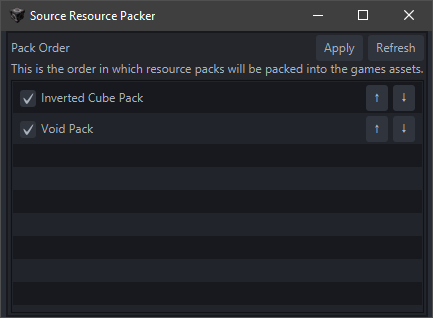
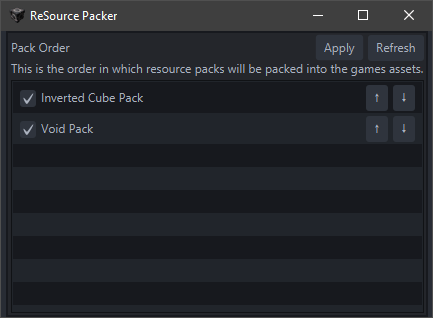
Name overhaul, README fix x 27,000

Changed region(s): [[0.06, 0.0283, 0.3603, 0.0849]]

diff --git a/src/main/kotlin/blue/sparse/srp/PackView.kt b/src/main/kotlin/blue/sparse/srp/PackView.kt
@@ -84,7 +84,7 @@ class PackController : Controller() {
 			step.value = "Packing default textures..."
 		}
 
-		SRPPacker.packDefaultResources { name, progress ->
+		RSPPacker.packDefaultResources { name, progress ->
 			Platform.runLater {
 				packingProgress.value = progress
 				assetName.value = name
@@ -97,9 +97,9 @@ class PackController : Controller() {
 			step.value = "Packing \"${name}\"..."
 		}
 
-		val f = File(SRPFiles.RESOURCE_PACKS, name)
+		val f = File(RSPFiles.RESOURCE_PACKS, name)
 		println("Packing $name")
-		SRPPacker.pack(f) { name, progress ->
+		RSPPacker.pack(f) { name, progress ->
 			Platform.runLater {
 				packingProgress.value = progress
 				assetName.value = "Asset \"$name\""

diff --git a/src/main/kotlin/blue/sparse/srp/SetupView.kt b/src/main/kotlin/blue/sparse/srp/SetupView.kt
@@ -8,7 +8,7 @@ import javafx.scene.control.Label
 import javafx.scene.control.ProgressBar
 import tornadofx.*
 
-class SetupView : View("Source Resource Packer") {
+class SetupView : View("ReSource Packer") {
 
 	private val controller: SetupController by inject()
 
@@ -60,14 +60,14 @@ class SetupController : Controller() {
 	val assetName = SimpleStringProperty("")
 
 	fun extractResources() {
-		SRP.extractDefaultResources { name, progress ->
+		ReSourcePacker.extractDefaultResources { name, progress ->
 			Platform.runLater {
 				extractionProgress.value = progress
 				assetName.value = "Asset \"$name\""
 			}
 		}
 
-		SRPFiles.makeDirectories()
+		RSPFiles.makeDirectories()
 	}
 }
 

diff --git a/src/main/kotlin/blue/sparse/srp/MainView.kt b/src/main/kotlin/blue/sparse/srp/MainView.kt
@@ -10,7 +10,7 @@ import java.lang.Integer.max
 import kotlin.math.min
 
 
-class MainView : View("Source Resource Packer") {
+class MainView : View("ReSource Packer") {
 
 	val controller by inject<MainController>()
 
@@ -147,7 +147,7 @@ class MainController : Controller() {
 
 	fun refreshPackList() {
 
-		val listFiles = SRPFiles.RESOURCE_PACKS.listFiles()
+		val listFiles = RSPFiles.RESOURCE_PACKS.listFiles()
 		val list = mutableListOf<String>()
 		for (file in listFiles) {
 			if (file.isDirectory || file.extension == "zip") {

diff --git a/src/main/kotlin/blue/sparse/srp/SRPApp.kt b/src/main/kotlin/blue/sparse/srp/SRPApp.kt
@@ -12,7 +12,7 @@ class SRPApp : App(NoPrimaryViewSpecified::class, SRPStylesheet::class) {
 
 	override val primaryView: KClass<out UIComponent>
 		get() {
-			if (!SRPFiles.DATA.exists()) {
+			if (!RSPFiles.DATA.exists()) {
 				return SetupView::class
 			}
 

diff --git a/src/main/java/blue/sparse/srp/RSPPacker.java b/src/main/java/blue/sparse/srp/RSPPacker.java
@@ -15,9 +15,9 @@ import java.util.List;
 import java.util.stream.Collectors;
 import java.util.stream.StreamSupport;
 
-public final class SRPPacker {
+public final class RSPPacker {
 
-	private SRPPacker() {
+	private RSPPacker() {
 	}
 
 //	public static void pack() throws IOException {
@@ -38,9 +38,9 @@ public final class SRPPacker {
 
 	public static void packDefaultResources(ResourceProgress progress) throws IOException {
 		System.out.println("Packing default resources...");
-		File dir = SRPFiles.WORKING_DIR;
-		File defaultResources = SRPFiles.DEFAULT_RESOURCES;
-		List<String> assetExtensions = new ArrayList<>(SRPFiles.ASSET_EXTENSIONS_LIST);
+		File dir = RSPFiles.WORKING_DIR;
+		File defaultResources = RSPFiles.DEFAULT_RESOURCES;
+		List<String> assetExtensions = new ArrayList<>(RSPFiles.ASSET_EXTENSIONS_LIST);
 
 		List<Path> paths = Files.walk(defaultResources.toPath()).filter(path -> {
 			File file = path.toFile();
@@ -98,7 +98,7 @@ public final class SRPPacker {
 	//named something wrong.
 	public static void pack(File pack, ResourceProgress progress) throws IOException {
 
-		File dir = SRPFiles.WORKING_DIR;
+		File dir = RSPFiles.WORKING_DIR;
 
 		if (!pack.isDirectory() && !pack.getName().endsWith(".zip")) {
 			return;
@@ -159,7 +159,7 @@ public final class SRPPacker {
 					texture.setReflectivity(new Vector3f(1f));
 					File out = new File(dir, assetName + ".vtf");
 
-					if (out.exists() && SRPConfig.MAKE_BACKUPS) {
+					if (out.exists() && RSPConfig.MAKE_BACKUPS) {
 						File copy = new File(out.getAbsolutePath() + ".bak");
 						if (!copy.exists()) {
 							Files.copy(out.toPath(), copy.toPath(), StandardCopyOption.REPLACE_EXISTING);

diff --git a/src/main/java/blue/sparse/srp/ReSourcePacker.java b/src/main/java/blue/sparse/srp/ReSourcePacker.java
@@ -12,7 +12,7 @@ import java.util.stream.Collectors;
 
 import static javafx.application.Application.launch;
 
-public final class SRP {
+public final class ReSourcePacker {
 
 	//TODO:
 	/*
@@ -43,16 +43,16 @@ public final class SRP {
 	}
 
 	public static void extractDefaultResources(ResourceProgress progress) {
-		File dir = SRPFiles.WORKING_DIR;
+		File dir = RSPFiles.WORKING_DIR;
 		String dirPath = dir.getAbsolutePath();
 
 		try {
-			List<String> extensions = SRPFiles.ASSET_EXTENSIONS_LIST;
+			List<String> extensions = RSPFiles.ASSET_EXTENSIONS_LIST;
 
 			List<Path> assets = Files.walk(dir.toPath()).filter(it -> {
 				String fullPath = it.toString();
 
-				if (fullPath.startsWith(SRPFiles.DATA.getAbsolutePath())) {
+				if (fullPath.startsWith(RSPFiles.DATA.getAbsolutePath())) {
 					return false;
 				}
 
@@ -80,13 +80,13 @@ public final class SRP {
 
 				progress.apply(assetName, (double) processCount / (double) totalFiles);
 
-				File out = new File(SRPFiles.DEFAULT_RESOURCES, assetName);
+				File out = new File(RSPFiles.DEFAULT_RESOURCES, assetName);
 				out.getParentFile().mkdirs();
 				try {
 					if (extension.equalsIgnoreCase("vtf")) {
 						try {
 							ValveTexture texture = ValveTexture.load(file);
-							File pngOut = new File(SRPFiles.DEFAULT_RESOURCES, assetName.replace(".vtf", ".png"));
+							File pngOut = new File(RSPFiles.DEFAULT_RESOURCES, assetName.replace(".vtf", ".png"));
 							texture.export("PNG", pngOut);
 						} catch (Throwable e) {
 							System.out.println("Failed to export " + assetName);

diff --git a/src/main/java/blue/sparse/srp/RSPFiles.java b/src/main/java/blue/sparse/srp/RSPFiles.java
@@ -3,9 +3,9 @@ package blue.sparse.srp;
 import java.io.File;
 import java.util.List;
 
-public final class SRPFiles {
+public final class RSPFiles {
 
-	private SRPFiles() {
+	private RSPFiles() {
 	}
 
 	public static final File WORKING_DIR = new File(System.getProperty("user.dir"));

diff --git a/src/main/java/blue/sparse/srp/RSPConfig.java b/src/main/java/blue/sparse/srp/RSPConfig.java
@@ -1,8 +1,8 @@
 package blue.sparse.srp;
 
-public final class SRPConfig {
+public final class RSPConfig {
 
-	private SRPConfig() {}
+	private RSPConfig() {}
 
 	public static boolean MAKE_BACKUPS = false;
 	public static boolean OVERWRITE_EXISTING_RESOURCE = false;

diff --git a/README.md b/README.md
@@ -1,6 +1,6 @@
 ![Pretend there's an image here.](assets/icon.png) 
-# Source Resource Packer
-Source Resource Packer aims to provide a streamlined, easy to follow process for asset swapping in Source games by providing automatic conversions and providing convenient, clean file structures to work with. **Currently only works with Unpacked variants of Source games, like Source Unpack for portal, but will support other games in the future.**
+# ReSource Packer
+ReSource Packer aims to provide a streamlined, easy to follow process for asset swapping in Source games by providing automatic conversions and providing convenient, clean file structures to work with. **Currently only works with Unpacked variants of Source games, like Source Unpack for portal, but will support other games in the future.**
 
 ### Installation
 1. Download the latest `.zip` archive from [releases](https://github.com/ChrisUMB/source-resource-packer/releases).
@@ -11,11 +11,11 @@ If you were to install this into Source Unpack for portal, it would look like th
 ![](assets/install.png)
 
 ### First Time Setup
-When you first start the application, it will extract all the default resources from the game's assets. This is important to understand because these will be the same resources you might reference when creating a resource pack, so this is best done on a clean install, or at least an install with clean assets. It will still work if you have modified assets, but those will become what SRP understands as the "default" ones. Mind you, **this can take quite a while if you have a slow hard drive,** but this only happens the first time you start SRP.
+When you first start the application, it will extract all the default resources from the game's assets. This is important to understand because these will be the same resources you might reference when creating a resource pack, so this is best done on a clean install, or at least an install with clean assets. It will still work if you have modified assets, but those will become what RSP understands as the "default" ones. Mind you, **this can take quite a while if you have a slow hard drive,** but this only happens the first time you start RSP.
 
 ### First Impression
 ![Pretend there's an image here.](assets/first-impression.png)  
-When you first install SRP, you'll be greeted with this screen. By default, you won't have a lot going on, however after the first time setup has completed running, you'll have a few new folders in your game directory: `resourcepacks` and `srp/resources`. The `resourcepacks` folder is where you'll place folders or zip files of resource packs to be packed into the assets using SRP. As you can see, I've provided you a couple to start with: `Inverted Cube Pack` and `Void Pack`. You don't have to use these, they're just for demonstration purposes of both how to apply resource packs and the file structure that resource packs follow.
+When you first install RSP, you'll be greeted with this screen. By default, you won't have a lot going on, however after the first time setup has completed running, you'll have a few new folders in your game directory: `resourcepacks` and `srp/resources`. The `resourcepacks` folder is where you'll place folders or zip files of resource packs to be packed into the assets using RSP. As you can see, I've provided you a couple to start with: `Inverted Cube Pack` and `Void Pack`. You don't have to use these, they're just for demonstration purposes of both how to apply resource packs and the file structure that resource packs follow.
 
 ### Sorting
 The order that your resource packs are in matters. It will apply them from top to bottom, where default resources are always first. This is important because if you have two resource packs that change the same files, the resource pack that comes second will inherently have "priority" and overwrite that file. Try not to have resource packs with conflict, but if it happens, this is how you try your best to mitigate it. Use the up and down arrow to the right of the resource pack entry to modify it's position in the list. Remember; they're applied TOP to BOTTOM.
@@ -32,7 +32,7 @@ Unless the resource pack has 4k images or giant models or something, this should
 ![Pretend there's an image here.](assets/packing-finished.png)
 
 ### Refreshing the List
-The refresh button is relatively straight forward, but any time you add or remove a resource from the actual `resourcepacks` directory, you'll want to hit that refresh button so SRP see's the change. It will try its best to maintain order and toggled resource packs as well, and just add the new ones as additional resource packs to your list.
+The refresh button is relatively straight forward, but any time you add or remove a resource from the actual `resourcepacks` directory, you'll want to hit that refresh button so RSP see's the change. It will try its best to maintain order and toggled resource packs as well, and just add the new ones as additional resource packs to your list.
 
 ## Resource Pack Creation
 
